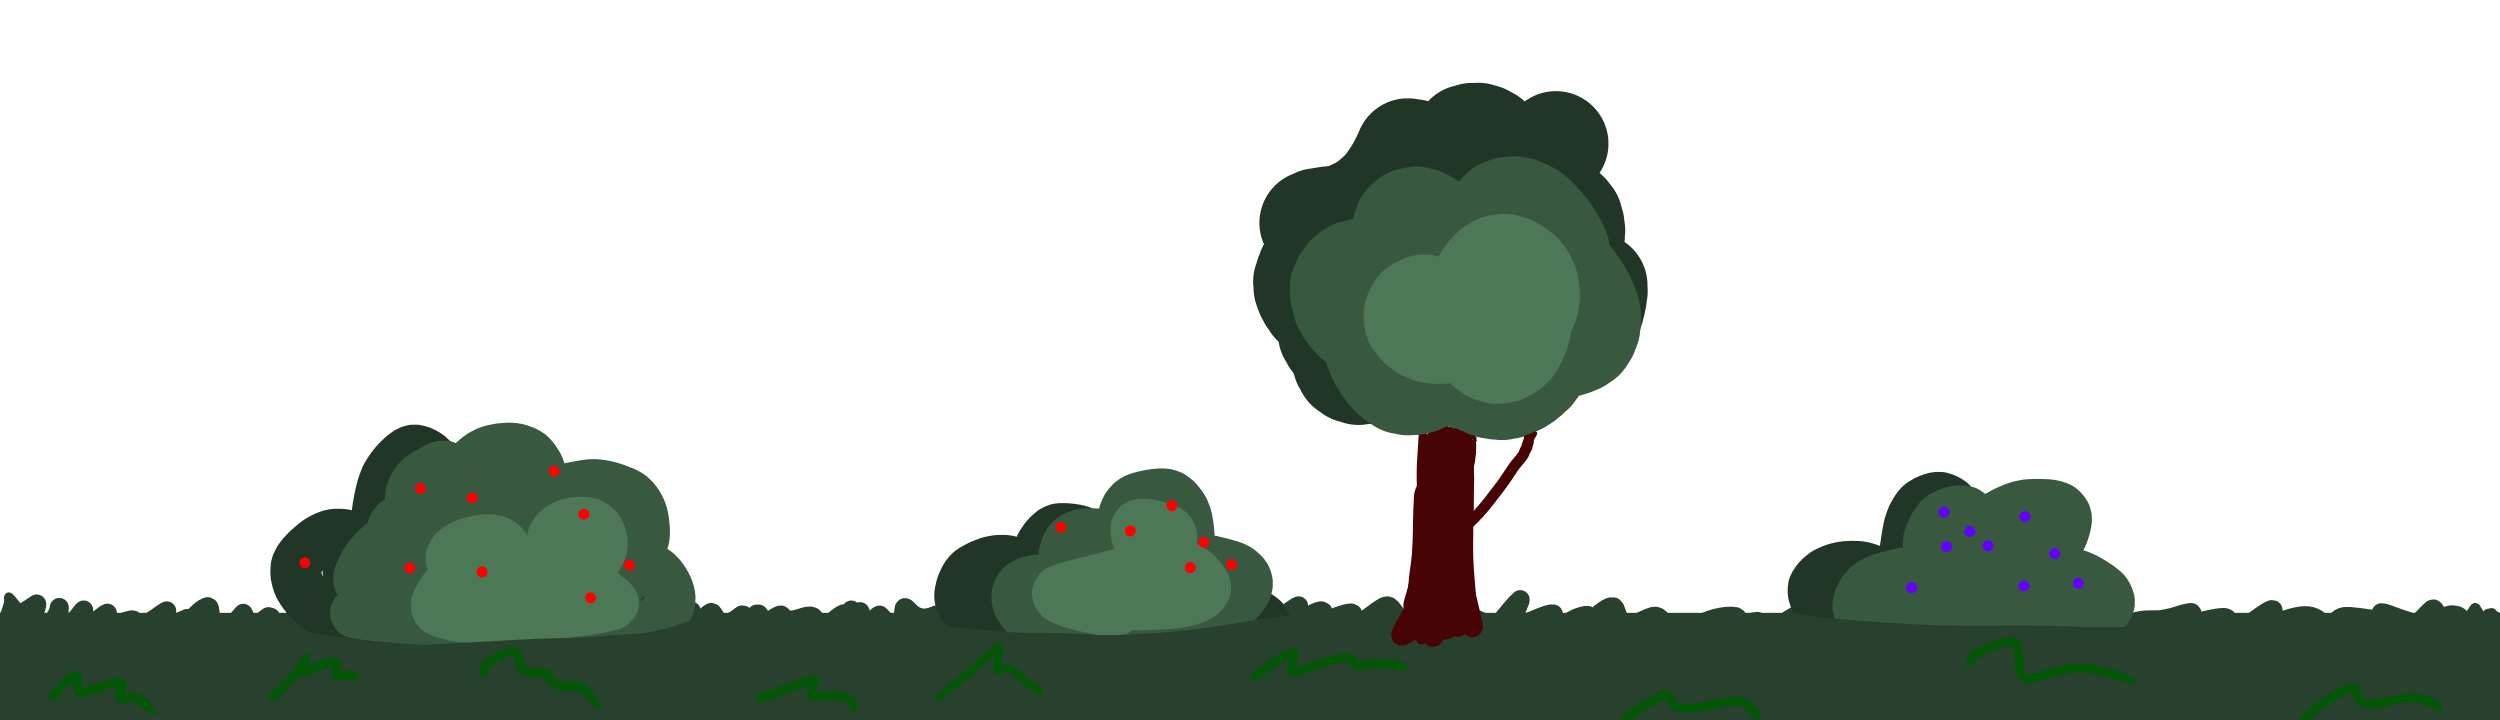
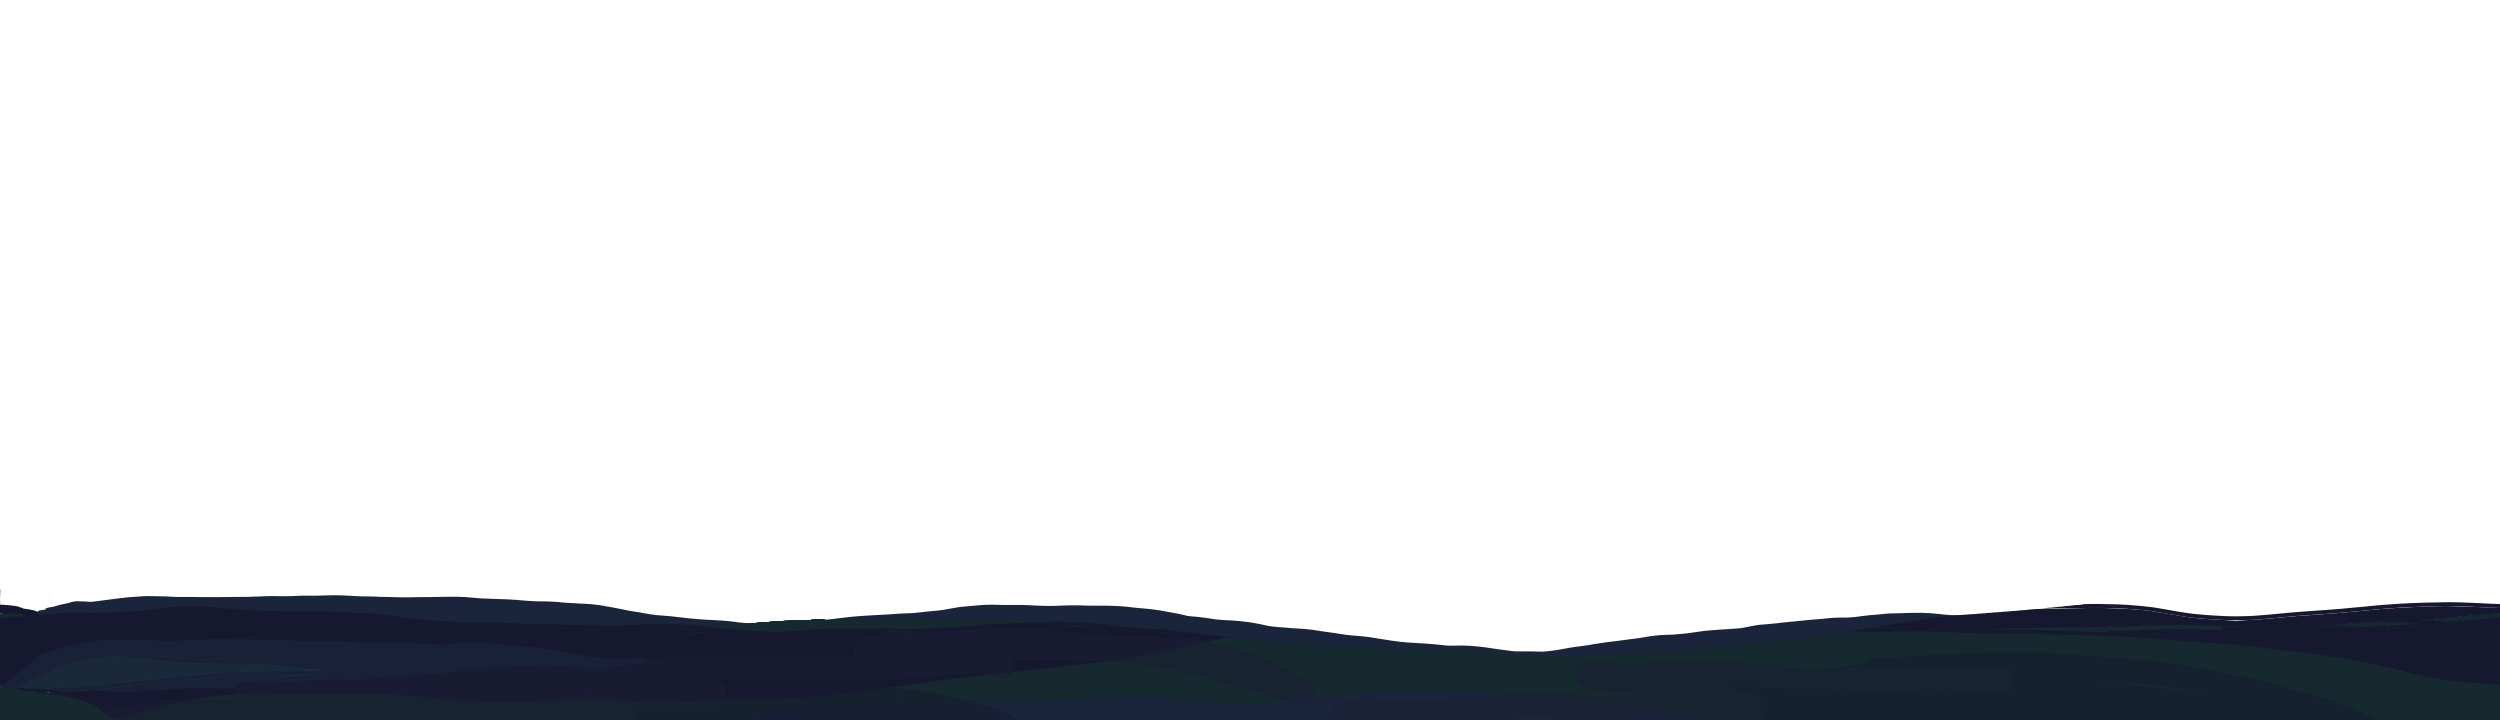
lake added

Changed region(s): [[0.0, 0.1222, 1.0, 1.0]]

diff --git a/game/core.py b/game/core.py
@@ -18,21 +18,11 @@ def run_game():
 
         if gameplay:
 
-            #пацюк в яких випадках зникає або закінчує гру
-
-            if enemies.rat.RAT_LIST_IN_GAME:
-                for (i, el) in enumerate(enemies.rat.RAT_LIST_IN_GAME):
-                    screen.blit(enemies.rat.RAT, el)
-                    el.x -= enemies.rat.RAT_SPEED
-
-                    if el.x < config.ScConfig.HIDDEN_SIZE[0]:
-                        enemies.rat.RAT_LIST_IN_GAME.pop(i)
-
-                    if player_hitbox.colliderect(el):
-                        gameplay = False
 
             #анімації на кнопках
             keys = pygame.key.get_pressed()
+
+
 
             if keys[pygame.K_s]:
                 player_hitbox = walk_crawls_on_ground[0].get_rect(topleft=(config.Player.X, config.Player.Y + 170))
@@ -185,6 +175,38 @@ def run_game():
             if background.Background.BG_GRASS_X == -background.Background.BG_WIDTH_END:
                 background.Background.BG_GRASS_X = background.Background.BG_WIDTH_START
 
+
+
+            # пацюк в яких випадках зникає або закінчує гру
+            if enemies.rat.RAT_LIST_IN_GAME:
+                for (i, el) in enumerate(enemies.rat.RAT_LIST_IN_GAME):
+                    screen.blit(enemies.rat.RAT, el)
+                    el.x -= enemies.rat.RAT_SPEED
+
+                    if el.x < config.ScConfig.HIDDEN_SIZE[0]:
+                        enemies.rat.RAT_LIST_IN_GAME.pop(i)
+
+                    if player_hitbox.colliderect(el):
+                        gameplay = False
+
+
+
+
+            # озеро в яких випадках зникає або закінчує гру
+            if enemies.lake.LAKE_LIST_IN_GAME:
+                for (i, el) in enumerate(enemies.lake.LAKE_LIST_IN_GAME):
+                    screen.blit(enemies.lake.LAKE, el)
+                    el.x -= enemies.lake.LAKE_SPEED
+
+                    if el.x < config.ScConfig.HIDDEN_SIZE[0]:
+                        enemies.lake.LAKE_LIST_IN_GAME.pop(i)
+
+                    if player_hitbox.colliderect(el):
+                        gameplay = False
+
+
+
+
             #бластери/постріли
 
             blasts_copy = config.blasters.BLASTS.copy()
@@ -207,6 +229,9 @@ def run_game():
                            config.blasters.BLASTERS_LEFT += 1
 
 
+
+
+
             #фпс гри
             clock.tick(GAME_SPEED)
 
@@ -225,6 +250,7 @@ def run_game():
                 config.blasters.BLASTERS_LEFT = 3
                 config.Player.X = 10
                 enemies.rat.RAT_LIST_IN_GAME.clear()
+                enemies.lake.LAKE_LIST_IN_GAME.clear()
                 config.blasters.BLASTS.clear()
 
 
@@ -241,6 +267,13 @@ def run_game():
             #де з'являються пацюки
             if event.type == enemies.rat.RAT_TIMER:
                 enemies.rat.RAT_LIST_IN_GAME.append(enemies.rat.RAT.get_rect(topleft=(enemies.rat.RAT_WIDTH_SPAWN, enemies.rat.RAT_HEIGHT_SPAWN)))
+
+            # де з'являютється озера
+            if event.type == enemies.lake.LAKE_TIMER:
+                enemies.lake.LAKE_LIST_IN_GAME.append(
+                    enemies.lake.LAKE.get_rect(topleft=(enemies.lake.LAKE_WIDTH_SPAWN, enemies.lake.LAKE_HEIGHT_SPAWN)))
+
+
 
             #обмеження кікості бластерів/пострілів і де вони з'являються
             if gameplay and event.type == pygame.KEYUP and event.key == pygame.K_f and config.blasters.BLASTERS_LEFT > 0:

diff --git a/game/enemies.py b/game/enemies.py
@@ -6,8 +6,18 @@ class rat:
     RAT_WIDTH_SPAWN = 1265
     RAT_HEIGHT_SPAWN = 350
     RAT_TIMER = pygame.USEREVENT + 1
-    RAT = pygame.image.load('images/rat.png').convert_alpha()
+    RAT = pygame.image.load('images/enemies/rat/rat.png').convert_alpha()
     RAT_LIST_IN_GAME = []
-    RAT_SPEED = 20
+    RAT_SPEED = 25
     RAT_PER_MILLISECOND = 5000
     pygame.time.set_timer(RAT_TIMER, RAT_PER_MILLISECOND)
+
+class lake:
+    LAKE_WIDTH_SPAWN = 1450
+    LAKE_HEIGHT_SPAWN = 610
+    LAKE_TIMER = pygame.USEREVENT + 1
+    LAKE = pygame.image.load('images/enemies/lake/lake.png').convert_alpha()
+    LAKE_LIST_IN_GAME = []
+    LAKE_SPEED = 20
+    LAKE_PER_MILLISECOND = 5000
+    pygame.time.set_timer(LAKE_TIMER, LAKE_PER_MILLISECOND)

diff --git a/game/config.py b/game/config.py
@@ -1,6 +1,3 @@
-
-#from typing import Dict, Any
-
 import pygame
 pygame.init()
 
@@ -20,7 +17,7 @@ def load_image(path, alpha=True):
 class ScConfig:
     SIZE        = (1280, 720)
     START_SIZE  = (0, 0)
-    HIDDEN_SIZE = (-200, 1360)
+    HIDDEN_SIZE = (-400, 1360)
 
 
 class PgDisplay:

diff --git a/game/screen_restart.py b/game/screen_restart.py
@@ -1,0 +1,4 @@
+import pygame
+pygame.init()
+
+
